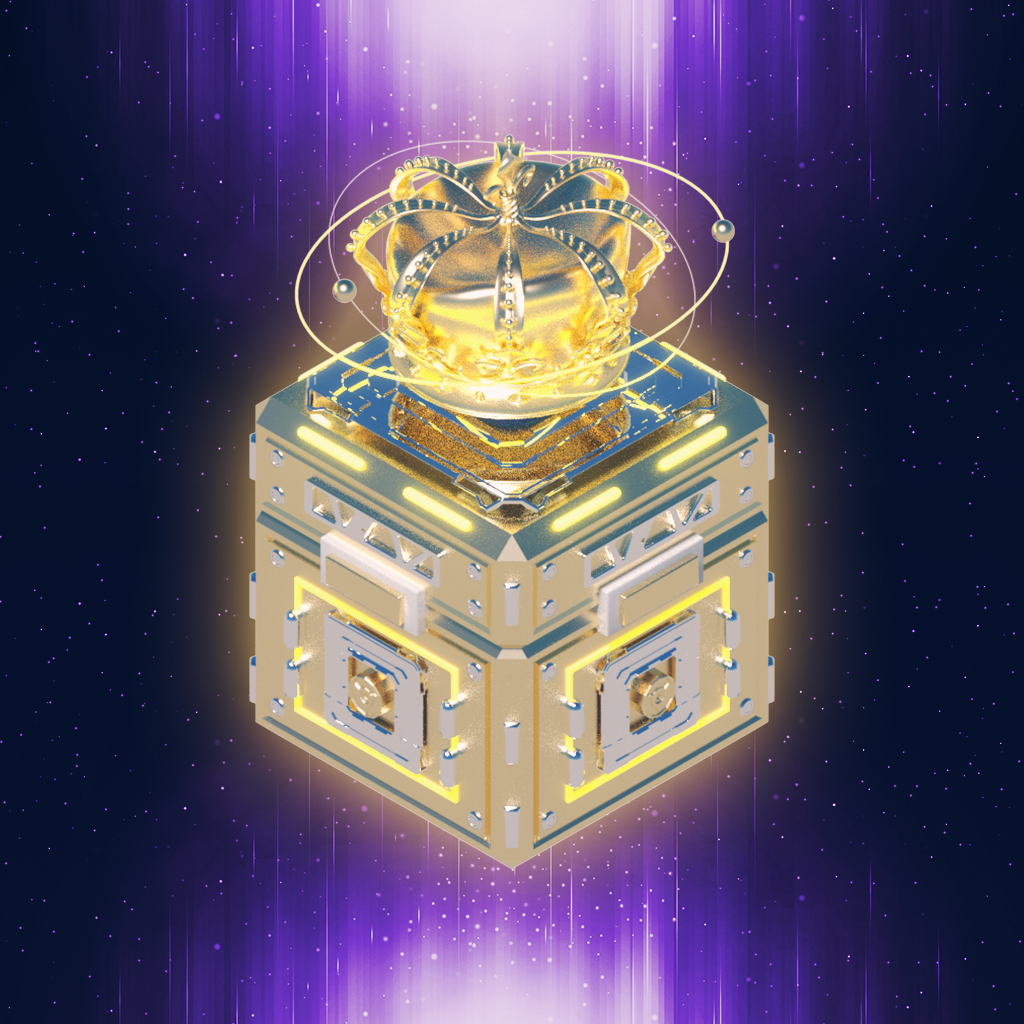
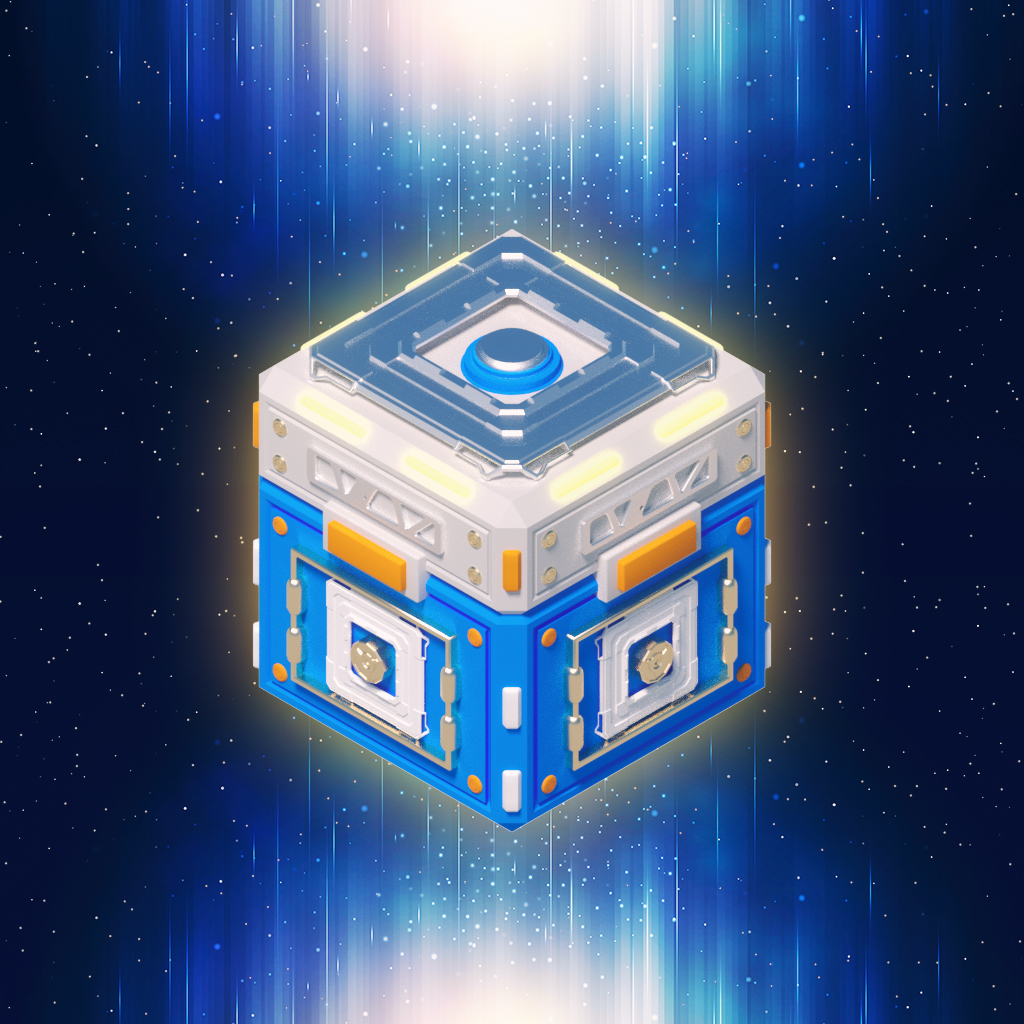
GitBook: [english] 2 pages and 6 assets modified

diff --git a/overview/whats-new/presale-of-eden-continent-pack-started.md b/overview/whats-new/presale-of-eden-continent-pack-started.md
@@ -1,0 +1,40 @@
+---
+description: Get earlier start in Eden Continent!
+---
+
+# Presale of Eden Continent Pack Started!
+
+The Polygon Presale Pack has been launched on the Opensea Ethereum network on August 24, 2021.
+
+![King Pack](../../.gitbook/assets/image%20%2839%29.png)
+
+![Landlord Pack](../../.gitbook/assets/image%20%2838%29.png)
+
+There are 5 King Packs, each King Pack is riced at 13,706 USDC \(equivalent to 70% of the average price of the contents\) and contains 10 plots \(2 of which are mysterious plots\), 20 first-generation apostles, and 20 gold chests.
+
+There are 30 landlord packs, each Landlord Pack is priced at 7,343 USDC \(equivalent to 75% of the average price of the contents\) and contains 5 plots \(2 of which are mysterious plots\), 10 first-generation apostles, and 10 gold chests.
+
+Prepare enough USDC and a certain amount of Ethereum \(about 0.05 ETH as a gas fee\) in your **Ethereum Network** wallet.
+
+Enter the corresponding Pack in Opensea through the link \(The sale token is WETH in the picture is for the test, and USDC will be used in formal auction\).
+
+[https://opensea.io/collection/evolution-land-eden](https://opensea.io/collection/evolution-land-eden)
+
+The coordinate of the lands will be listed in the Description. You can refer to the lands of the test server to view the abundance of the resources \(the mysterious land resources may differ from the testnet, so you don’t need to refer to them.\)
+
+Testnet: https://www.evolution.land .l2me.com/land/5
+
+Click Place Bid to participate in the auction and enter the price you are willing to pay.
+
+If there is already a bid, you need to pay 5% higher than the price for another bid.
+
+After the bid is successful, your auction record will be displayed on the page, and you can also choose to continue the auction or cancel the auction.
+
+**Reserve Price: Due to Opensea's mechanism, your bid must be higher than the Reserve Price, otherwise, the bidding will eventually fail.**
+
+The auction will last for one week \(7 days\), and the player with the highest bid before the deadline will win the bid.
+
+The USDC obtained from the auction will be used to buy RING from the market, and will be divided into following the rule: 30% for the developer dividend pool, 30% for the farm/kryptonite dividend pool, 30% for the contributor pool, and 10% into the lottery pool.
+
+After obtaining the Pack NFT, the corresponding NFT will be sent to the holder’s address **Polygon Network** **10 days** after the official launch on the mainland. In order to ensure the process is smooth, please be sure to register the Evolution Land account before going online.
+

diff --git a/SUMMARY.md b/SUMMARY.md
@@ -6,6 +6,7 @@
 
 * [What is Evolution Land](overview/what-is-evolution-land.md)
 * [What's New](overview/whats-new/README.md)
+  * [Presale of Eden Continent Pack Started!](overview/whats-new/presale-of-eden-continent-pack-started.md)
   * [Are you ready for 'The Gold Rush'?](overview/whats-new/are-you-ready-for-the-gold-rush.md)
   * [The Dawning has arrived!](overview/whats-new/the-dawning-has-arrived.md)
   * [Treasure box lucky drop. Win free limited mining drill!](overview/whats-new/treasure-box-airdrop-event.md)
